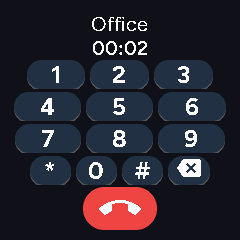
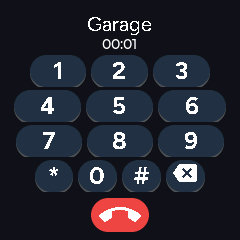
Show the refined phone controls and scrolling BLF menu [skip ci]

diff --git a/docs/ESP_PHONE_SERVICES.md b/docs/ESP_PHONE_SERVICES.md
@@ -28,9 +28,10 @@ Message-Account field. The regular in-call keypad sends DTMF to the mailbox
 menu. An explicit mailbox target can be configured for another PBX.
 
 During a call, the dialpad icon above the contact opens that same keypad.
-The display shows the current contact and elapsed call time; long names scroll
+The display shows the connected party and elapsed call time; long names scroll
 within the header. Its call button becomes the red hangup control. Outside a
-call, the keypad composes a number normally.
+call, the keypad composes a number normally. Returning to idle clears the
+editable number, ready for a new call.
 
 ## The phone on its own display
 
@@ -49,6 +50,9 @@ The left icon identifies an ESP (chip), SIP phone (desk phone), browser phone
 or group. The name and destination come from the
 shared phonebook. With BLF enabled, the right-hand icon and second line show
 the contact's current call state.
+The maintained 240- and 360-pixel round layouts show four complete contact rows,
+or three when the voicemail envelope needs space. Both lines remain visible
+within the circular screen.
 The directory category comes from LDAP's standard `ou` field:
 
 | `ou` value | Left icon |
@@ -91,6 +95,11 @@ firmware. For example, a phone can expose volume, microphone gain, processing
 mode, auto answer and Do Not Disturb. The screen controls the same entities
 available through ESPHome.
 
+On round displays, swipe down from the top of Options to return to the previous
+screen, including when the gesture starts over the controls' background.
+Gestures within the list scroll its contents. An upward gesture at the end of
+the last page stays there. Sliders and dropdowns retain their own touch controls.
+
 ### Use the same keypad before and during a call
 
 <img src="images/phone-services/dtmf.jpg" width="240" alt="In-call DTMF keypad with the current peer, elapsed time and red hangup control" />
@@ -100,7 +109,26 @@ IVR. While connected, each key sends a negotiated RTP telephone event; the
 header shows the peer and elapsed time, and the red control ends the call.
 Opening the keypad keeps the existing audio conversation active. Outside a
 call, the normal dialing page composes a destination and offers the call
-control instead.
+control instead. On round displays, the smaller call and hangup control leaves
+more space for the number keys. After hangup, the editable number is empty;
+Delete keeps it empty, and the next digit starts a new destination. The
+call-ended notice retains the last peer separately.
+
+### Connected names after pickup
+
+If Casa calls Test and this phone picks up Test's ringing call, setup can show
+Test's friendly name. When the PBX supplies Casa's connected identity, both the
+call screen and in-call keypad update to Casa. Selecting another contact does
+not change the name of the current conversation.
+
+Custom displays can read `id(phone).get_active_peer_name()`. It returns an
+owned string from the current call and becomes empty when that dialog is
+released. Use the optional `on_peer_changed` callback to refresh labels when
+the PBX refines the connected identity during setup or after answer.
+Connection setup remains in `on_in_call`; an identity update does not replay
+that callback. The hook is compiled only when configured. See the
+[connected-peer callback example](https://github.com/n-IA-hane/esphome-voip-stack/blob/dev/docs/PHONE_SERVICES.md#connected-peer-names)
+for custom YAML.
 
 ## One phone, one identity
 

diff --git a/docs/WHATS_NEW_2026_11_1_DEV.md b/docs/WHATS_NEW_2026_11_1_DEV.md
@@ -217,6 +217,17 @@ device name is presented as the caller's name.
   mailbox conversations. A dialpad icon opens the existing keypad during a
   call, showing the contact, elapsed time and red hangup control.
   Switching voicemail off and on retains the account's MWI resource.
+- **Connected names after pickup:** the call screen and keypad follow the
+  PBX's connected-party identity, including updates received after answer.
+  Custom displays can use `get_active_peer_name()` and the optional
+  `on_peer_changed` callback. Connection setup stays in `on_in_call`.
+- **More room on round displays:** contacts show four complete rows, or three
+  when voicemail needs space. A smaller call and hangup control leaves room
+  for larger number keys. Returning to idle clears the editable number for
+  the next call, including after pickup.
+- **Options gestures:** scrolling reaches the complete controls list, and
+  swiping down from its top returns to the previous screen. The controls'
+  background no longer traps that navigation gesture.
 - **Independent firmware choices:** select `directory`, `blf` and `mwi` in
   `firmware_features`. BLF also works with static contacts and without a display.
   Omitted features remove their client code and reserved pools from the firmware.

diff --git a/docs/BREAKING_CHANGES.md b/docs/BREAKING_CHANGES.md
@@ -58,6 +58,14 @@ list and reusable row pools. The idle mailbox envelope calls the PBX menu;
 the in-call keypad sends DTMF. Select `directory`, `blf` and `mwi` independently
 in `firmware_features`. Automatic HA registration alone does not enable MWI.
 Start from the current board YAML when migrating a custom UI.
+
+Custom call displays should read `get_active_peer_name()` for the current
+dialog and use the optional `on_peer_changed` callback to refresh connected
+names after pickup or other PBX identity updates. Keep connection setup in
+`on_in_call`. Clear the editable dialer on idle and retain any call-ended
+notice separately. Maintained packages already include these bindings.
+See [connected names after pickup](ESP_PHONE_SERVICES.md#connected-names-after-pickup).
+
 Deleting an originating ESPHome
 device/integration now permanently removes its managed credentials and mailbox;
 ordinary offline/reload cycles retain them. Read the
